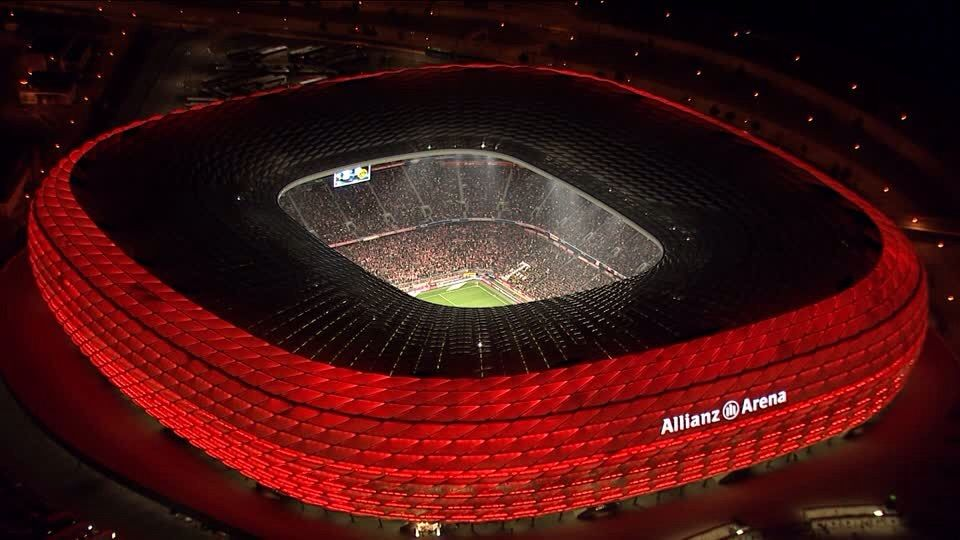
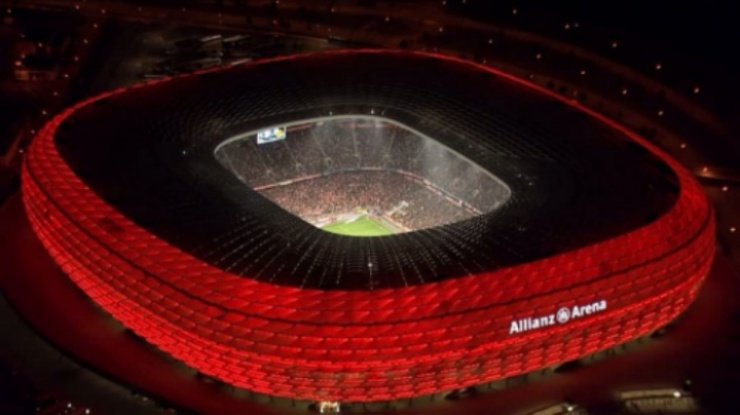
resized all my images

diff --git a/mysupport.html b/mysupport.html
@@ -5,20 +5,20 @@
 		<title>Project 1 Support</title>
 	</head>
 
-<body>	
-	<ul>
-				<li><a href="index.html" target="self">Home</a></li> 
-				<li><a href="aboutme.html" target="self">About</a></li> 
-				<li><a href="myresume.html" target="self">Resume</a></li> 
-				<li><a href="mysupport.html" target="self">Support</a></li> 
-	</ul>
-	<h1>Welcome To Soccer Support</h1>
-	<h3>We're here to help</h3>
-	<img src="support.jpg" alt="picture showing support"/>
-	<footer>
-		<p><strong>You can check soccer scores and fixtures <a href="http://www.espn.com/soccer/scoreboard">here</a></strong></p>
-		<p><strong>Want someone to talk to, email us at <i>seunoguns709@gmail.com</i></strong></p>
-	</footer>
+	<body>	
+		<ul>
+					<li><a href="index.html" target="self">Home</a></li> 
+					<li><a href="aboutme.html" target="self">About</a></li> 
+					<li><a href="myresume.html" target="self">Resume</a></li> 
+					<li><a href="mysupport.html" target="self">Support</a></li> 
+		</ul>
+		<h1>Welcome To Soccer Support</h1>
+		<h3>We're here to help</h3>
+		<img src="media/support.jpg" alt="picture showing support"/>
+		<footer>
+			<p><strong>You can check soccer scores and fixtures <a href="http://www.espn.com/soccer/scoreboard">here</a></strong></p>
+			<p><strong>Want someone to talk to, email us at <i>seunoguns709@gmail.com</i></strong></p>
+		</footer>
 
-</body>
+	</body>
 </html>

diff --git a/index.html b/index.html
@@ -16,20 +16,20 @@
 		<section>
 			<h1>Welcome to our Homepage</h1>
 			<h3>All out, All game, All season</h3>
-			<img src="ball.jpg" alt="ball"/>
+			<img src="media/ball.jpg" alt="ball"/>
 		</section>
 
 		<section>
 			<h1>Greatest Sport Ever Invented by Man</h1>
 			<h3>Ultimate</h3>
-			<img src="soccer.png" alt="soccer player"/>
+			<img src="media/soccer.png" alt="soccer player"/>
 		</section>	
 
 		<section>
-			<img src="stadium2.jpg" alt="soccer stadium"/>
-			<img src="stadium.jpg" alt="second soccer stadium"/>
-			<img src="uefa.jpg" alt="UEFA champions league logo"/>
-			<img src="afcon.jpg" alt="Nigeria AFCON"/>
+			<img src="media/stadium2.jpg" alt="soccer stadium"/>
+			<img src="media/stadium.jpg" alt="second soccer stadium"/>
+			<img src="media/uefa.jpg" alt="UEFA champions league logo"/>
+			<img src="media/afcon.jpg" alt="Nigeria AFCON"/>
 		</section>
 	
 	</body>

diff --git a/aboutme.html b/aboutme.html
@@ -12,7 +12,7 @@
 			<li><a href="myresume.html" target="self">Resume</a></li> 
 			<li><a href="mysupport.html" target="self">Support</a></li> 
 		</ul>
-		<img src="seun.jpg" alt="My picture"/>
+		<img src="media/seun.jpg" alt="My picture"/>
 
 		<section>
 			<h1><strong>Profile</strong></h1>
@@ -21,7 +21,7 @@
 			<p> Olu is the son of a retired professional soccer player who played for the Nigerian national team from 2004 - 2008. Olu led the 2017 season with assists for the Illinois tech scarlet hawks and named first team all independent. There is a long list of other recognitions won by Olu. </p>
 		</section>	
 
-		<img src="soccer01.jpg" alt="Second picture"/>
+		<img src="media/soccer01.jpg" alt="Second picture"/>
 	<iframe src="https://www.youtube.com/embed/h38C08nfYr0" allowfullscreen></iframe>
 
 	</body>

diff --git a/myresume.html b/myresume.html
@@ -24,7 +24,7 @@
 		<p>Excellent 1 v1 ability------------------------------------------------------------------------Excellent right foot</p>
 		<p>Right footed, quality delivery and passing range----------------------------------------Strong aerial presence</p>
 		<p>Strong soccer background having a Dad who played professional soccer-------------------------------------------Exceptional passing range</p>
-		<img src="resume.JPG" alt="resume picture"/>
+		<img src="media/resume.JPG" alt="resume picture"/>
 
 	</body>
 </html>
